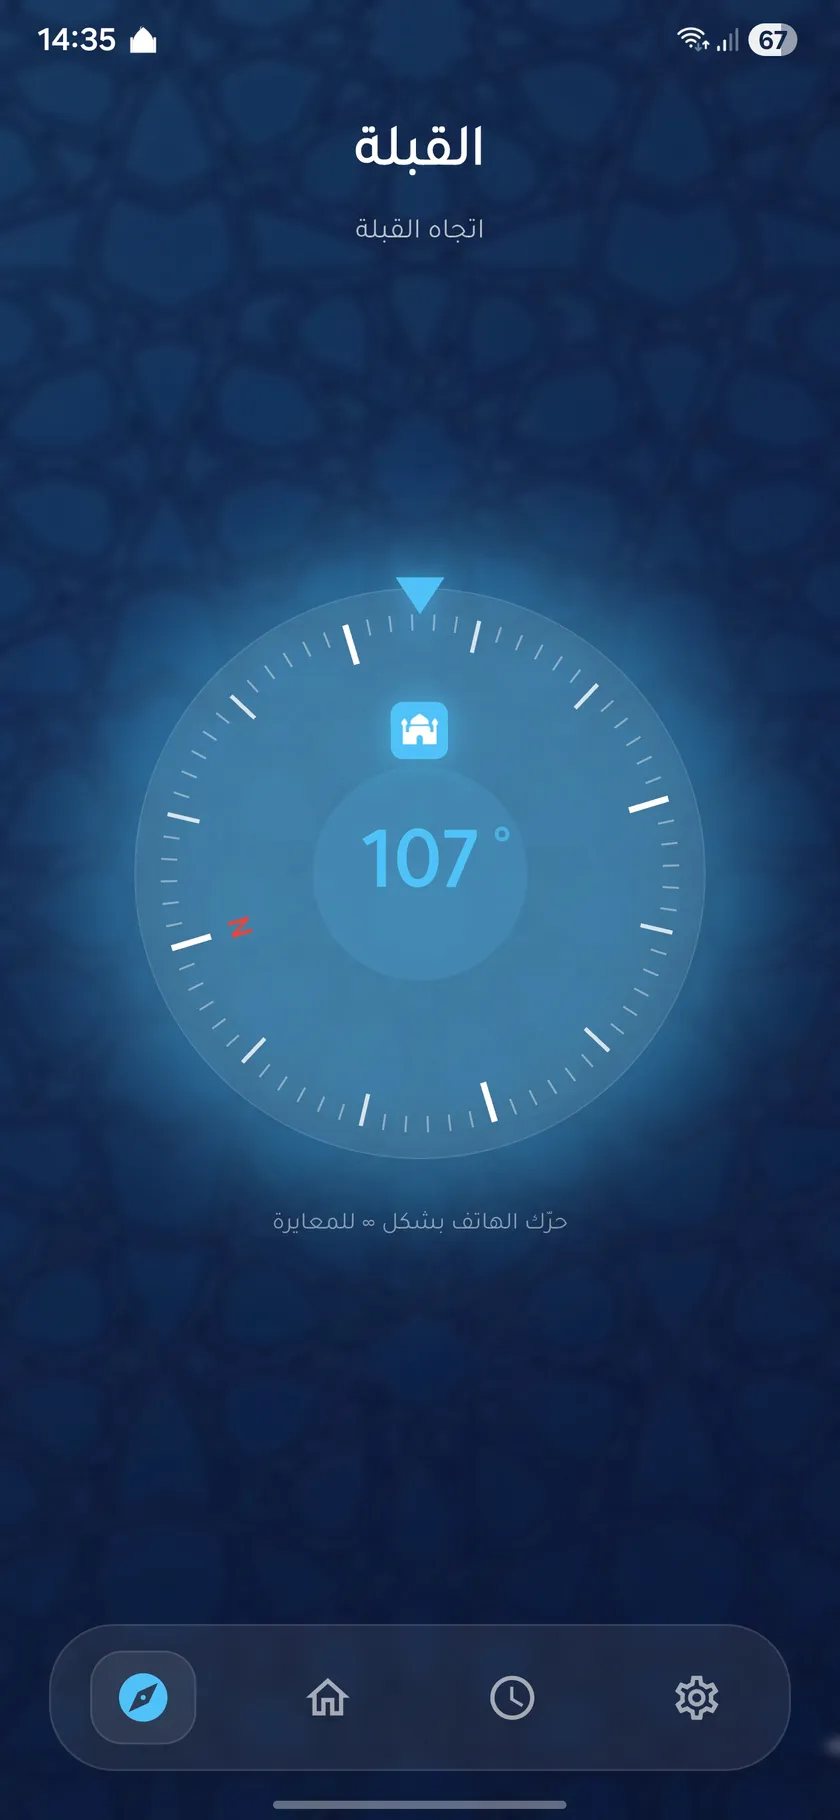
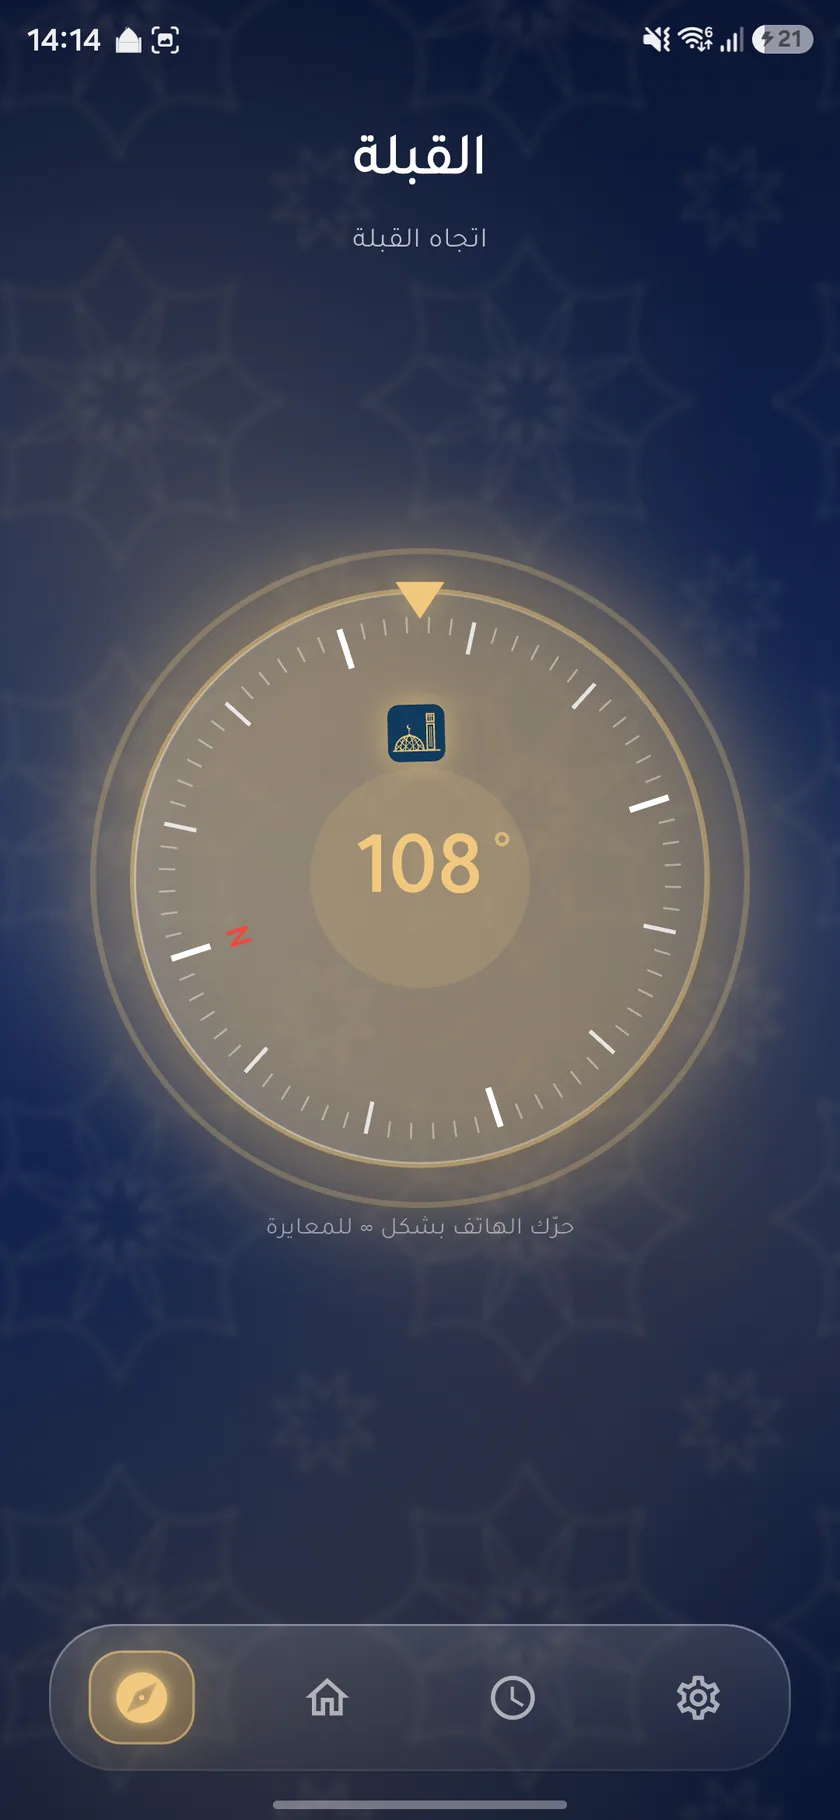
Refresh app screenshots, add Prayer Journal to gallery, new brand mark
Replaces the four gallery/hero screenshots with the latest app captures and
adds a fifth screen, Prayer Journal, positioned right after Prayer Times in
the "Fluid Experience" section (Hero rotation included). Labels and
descriptions added for en/fr/ar.

The pinned gallery scroll length is now derived from the number of screens
(~0.6 viewport each) instead of being hardcoded for four, so dwell time per
screen stays constant.

Swaps the navbar/footer mark for the new gold mosque icon. Since that PNG is
transparent, the logo tile background moves from the emerald gradient to a
dark navy fill with a gold border, and the stray background:none override on
the footer mark is dropped so the tile actually renders.

diff --git a/src/index.css b/src/index.css
@@ -489,11 +489,13 @@ img {
   width: 2.5rem;
   height: 2.5rem;
   border-radius: 0.75rem;
-  background: var(--gradient-primary);
+  /* Dark tile so the gold app mark keeps its contrast */
+  background: linear-gradient(135deg, #16203a, #0b1224);
+  border: 1px solid rgba(230, 193, 109, 0.28);
   display: flex;
   align-items: center;
   justify-content: center;
-  box-shadow: 0 0 30px -6px rgba(16, 185, 129, 0.5);
+  box-shadow: 0 0 30px -8px rgba(230, 193, 109, 0.35);
   position: relative;
   overflow: hidden;
 }
@@ -1779,8 +1781,9 @@ img {
   width: 2.25rem;
   height: 2.25rem;
   border-radius: 0.625rem;
-  background: var(--gradient-primary);
-  box-shadow: 0 0 20px -4px rgba(16, 185, 129, 0.4);
+  background: linear-gradient(135deg, #16203a, #0b1224);
+  border: 1px solid rgba(230, 193, 109, 0.28);
+  box-shadow: 0 0 20px -6px rgba(230, 193, 109, 0.3);
 }
 
 .footer-brand-name {

diff --git a/src/components/Gallery.jsx b/src/components/Gallery.jsx
@@ -20,6 +20,11 @@ const screenshots = [
     descKey: "gallery.shots.times.desc",
   },
   {
+    src: "/prayer-journal.webp",
+    labelKey: "gallery.shots.journal.label",
+    descKey: "gallery.shots.journal.desc",
+  },
+  {
     src: "/qibla.webp",
     labelKey: "gallery.shots.qibla.label",
     descKey: "gallery.shots.qibla.desc",
@@ -48,7 +53,9 @@ export default function Gallery() {
       const st = ScrollTrigger.create({
         trigger: pinRef.current,
         start: "top top",
-        end: () => "+=" + window.innerHeight * 2.4,
+        // ~0.6 viewport of scroll per screen keeps the dwell time constant
+        // as screens are added
+        end: () => "+=" + window.innerHeight * 0.6 * screenshots.length,
         pin: true,
         refreshPriority: 1,
         invalidateOnRefresh: true,

diff --git a/src/components/Footer.jsx b/src/components/Footer.jsx
@@ -51,7 +51,7 @@ export default function Footer() {
           {/* Brand column */}
           <div className="footer-brand">
             <div className="footer-logo">
-              <img src="/favicon.png" alt="Salati Logo" className="footer-logo-mark" style={{ objectFit: 'cover', background: 'none' }} />
+              <img src="/favicon.png" alt="Salati Logo" className="footer-logo-mark" style={{ objectFit: 'cover' }} />
               <div>
                 <p className="footer-brand-name">{t("brandName")}</p>
                 <p className="footer-brand-tagline">{t("footer.tagline")}</p>

diff --git a/src/components/Hero.jsx b/src/components/Hero.jsx
@@ -31,6 +31,7 @@ export default function Hero() {
   const screens = [
     "/prayer-dashboard.webp",
     "/prayer-times.webp",
+    "/prayer-journal.webp",
     "/qibla.webp",
     "/settings.webp",
   ];
